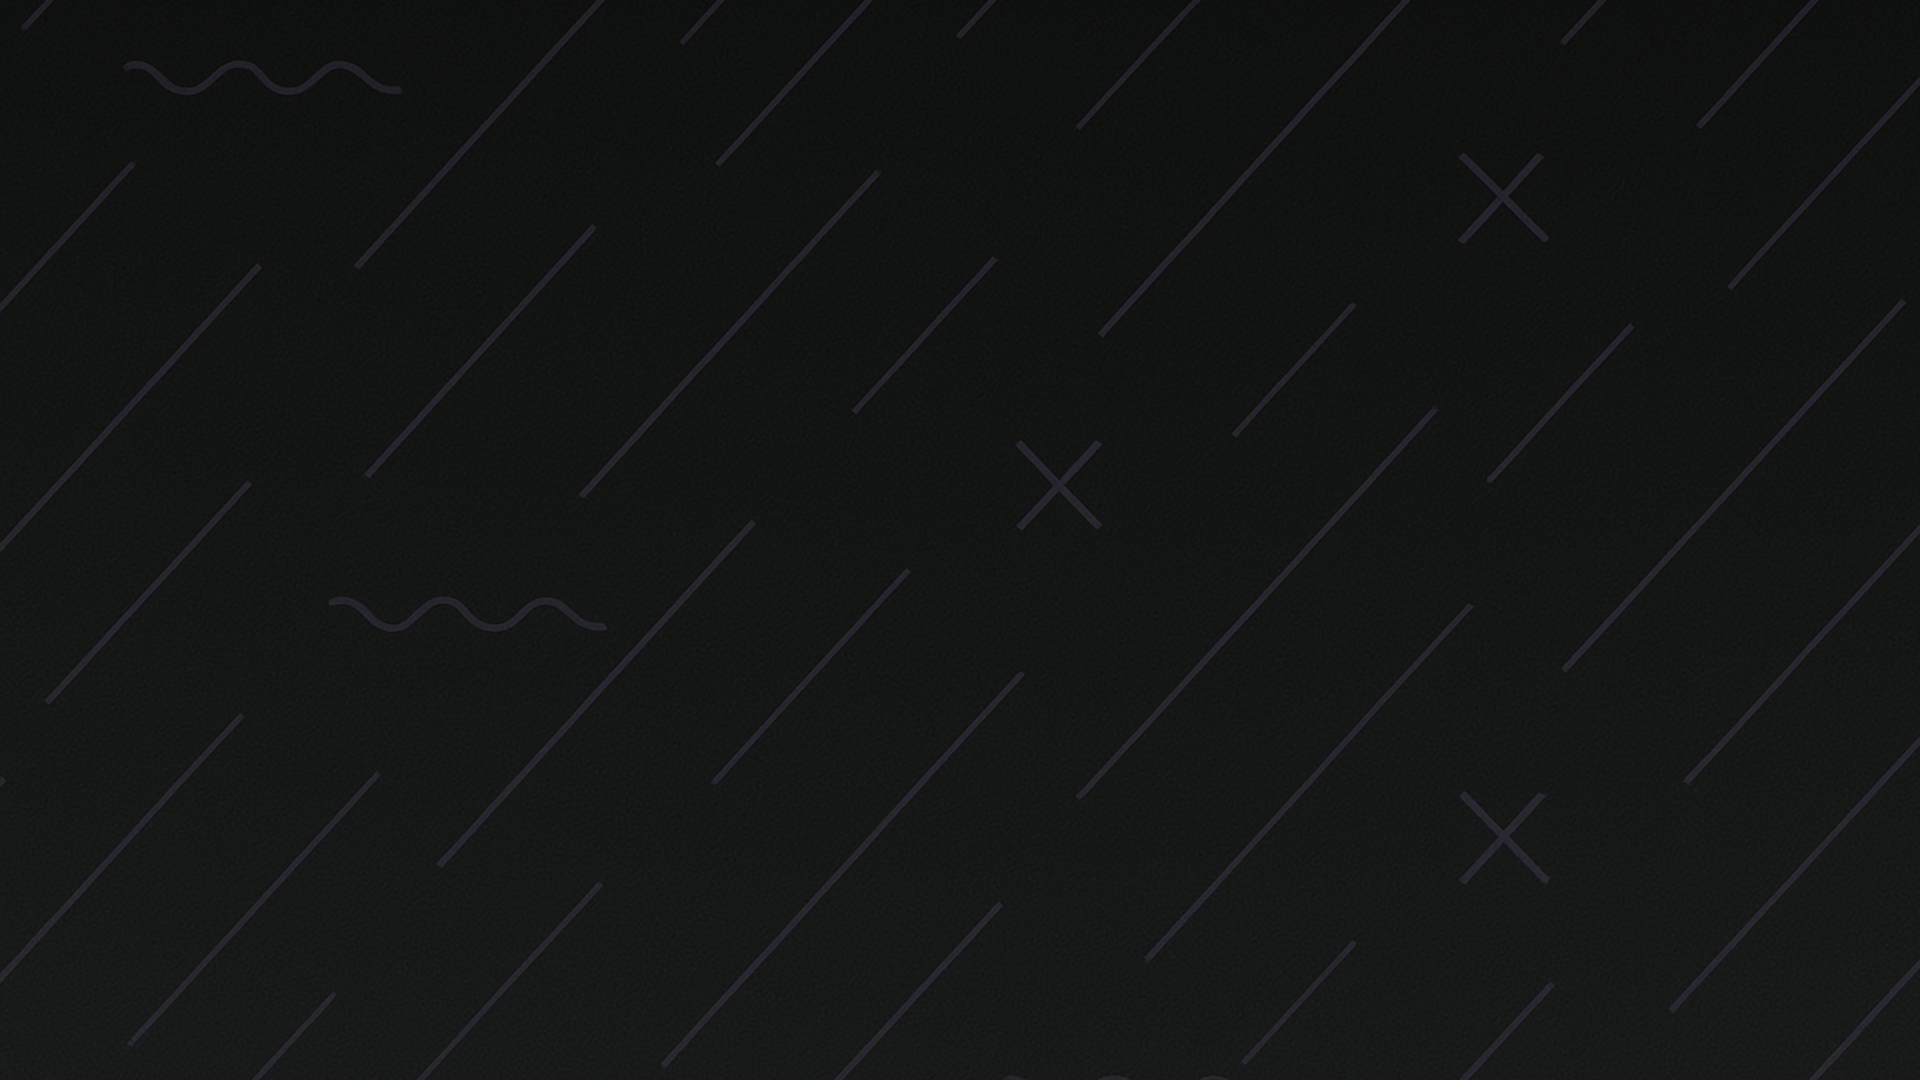
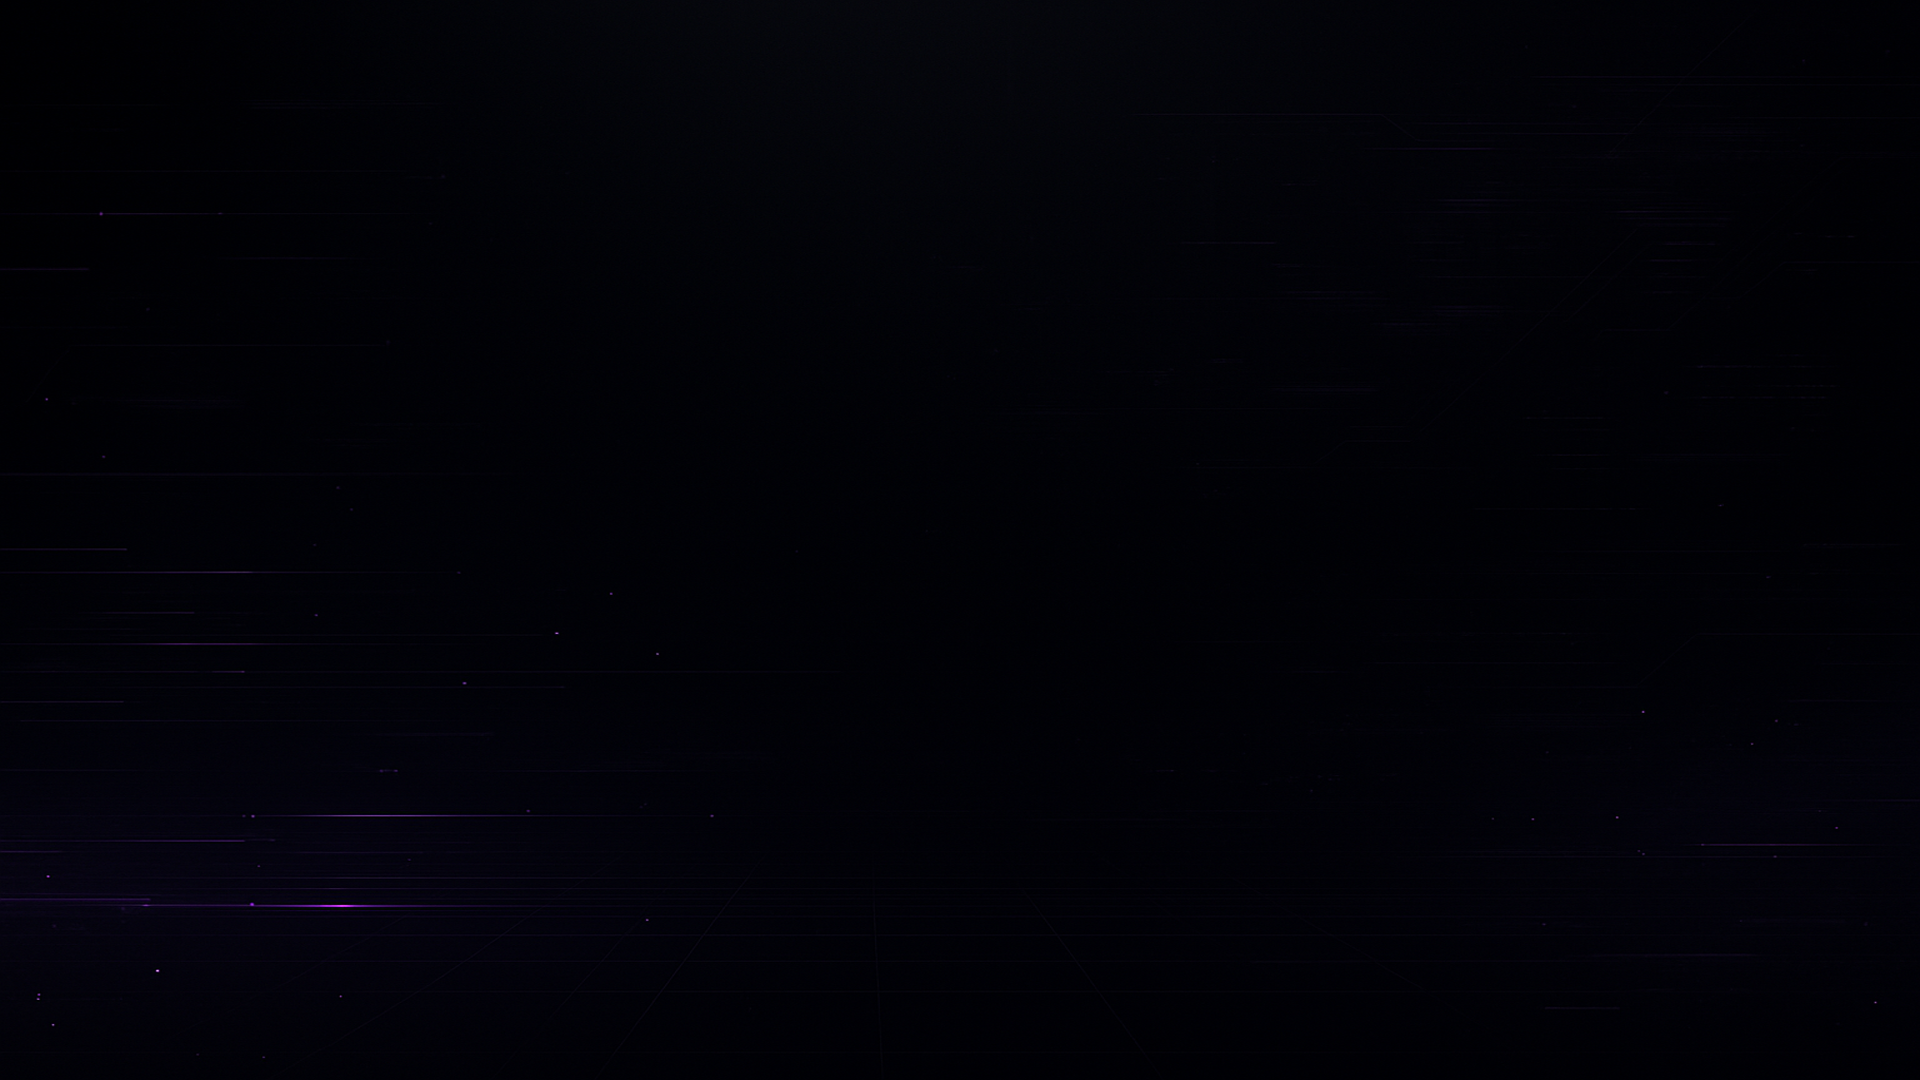
feat: criação de começo da estilização da página home

diff --git a/src/app/components/button-home/button-home.component.scss b/src/app/components/button-home/button-home.component.scss
@@ -1,25 +1,50 @@
-button {
-    font-size: 16px;
-    padding: 1em 3.3em;
+.button {
+    --main-color: #a250bb;
+    --main-bg-color: rgb(127, 80, 142, .36);
+    --pattern-color: rgba(182, 46, 213, 0.073);
+
+    filter: hue-rotate(0deg);
+
     cursor: pointer;
-    transform: perspective(200px) rotateX(15deg);
-    color: white;
-    font-weight: 900;
-    border: none;
-    border-radius: 5px;
-    background: linear-gradient(0deg,
-            rgba(63, 94, 251, 1) 0%,
-            rgba(70, 135, 252, 1) 100%);
-    box-shadow: rgba(63, 94, 251, 0.2) 0px 40px 29px 0px;
-    will-change: transform;
-    transition: all 0.3s;
-    border-bottom: 2px solid rgba(70, 135, 252, 1);
+    text-transform: uppercase;
+    letter-spacing: 0.5rem;
+    background: radial-gradient(circle,
+            var(--main-bg-color) 0%,
+            rgba(0, 0, 0, 0) 95%),
+        linear-gradient(var(--pattern-color) 1px, transparent 1px),
+        linear-gradient(to right, var(--pattern-color) 1px, transparent 1px);
+    background-size:
+        cover,
+        15px 15px,
+        15px 15px;
+    background-position:
+        center center,
+        center center,
+        center center;
+    border-image: radial-gradient(circle,
+            var(--main-color) 0%,
+            rgba(0, 0, 0, 0) 100%) 1;
+    border-width: 1px 0 1px 0;
+    color: var(--main-color);
+    padding: 1rem 3rem;
+    font-weight: 700;
+    font-family: 'Knight' !important;
+    font-size: 1em;
+    transition: background-size 0.2s ease-in-out;
+
+    @media (max-width: 768px) {
+        font-size: .8em;
+        letter-spacing: 0.4em;
+    }
 }
 
-button:hover {
-    transform: perspective(180px) rotateX(30deg) translateY(2px);
+.button:hover {
+    background-size:
+        cover,
+        10px 10px,
+        10px 10px;
 }
 
-button:active {
-    transform: perspective(170px) rotateX(36deg) translateY(5px);
+.button:active {
+    filter: hue-rotate(250deg);
 }

diff --git a/src/app/pages/home/home.component.html b/src/app/pages/home/home.component.html
@@ -1,4 +1,12 @@
-<div class="d-flex align-itens-center justify-content-center pt-3">
-    <!-- <app-button-home [text]="'Regras'"></app-button-home> -->
-     <h2>Seu novo RPG</h2>
+<div class="d-flex align-items-center justify-content-center flex-column pt-4">
+     <h1 class="title text-center mt-2">Conflict Protocol</h1>
+     <h2 class="subtitle text-center px-5">Domine o código. Conquiste o protocolo</h2>
+     <div class="d-flex align-items-center justify-content-center p-5 gap-3 flex-wrap">
+          <app-button-home [text]="'CRIAR UMA PARTIDA'"></app-button-home>
+          <app-button-home [text]="'ENCONTAR UMA SALA'"></app-button-home>
+     </div>
+
+     <div class="d-flex align-items-center justify-content-center p-5 gap-3 flex-column">
+          <img class="img-center" src="/images/tabuleiro.png">
+     </div>
 </div>

diff --git a/src/styles.scss b/src/styles.scss
@@ -1,6 +1,6 @@
 @font-face {
-    font-family: 'Nunito Sans';
-    src: url('../public/fonts/nunito-sans.ttf');
+    font-family: 'Knight';
+    src: url('../public/fonts/knight/knight.ttf');
 }
 
 html,
@@ -9,7 +9,7 @@ body {
 }
 
 h1 {
-    font-family: 'Nunito Sans' !important;
+    font-family: 'Knight' !important;
     font-weight: 600 !important;
     font-size: 1.6em !important;
 
@@ -17,15 +17,15 @@ h1 {
 }
 
 h2 {
-    font-family: 'Nunito Sans' !important;
+    font-family: 'Knight' !important;
     font-weight: 500 !important;
     font-size: 1.2em !important;
 
-    color: #7f508e !important;
+    color: #633772 !important;
 }
 
 p {
-    font-family: 'Nunito Sans' !important;
+    font-family: 'Knight' !important;
     font-weight: 400 !important;
     font-size: 1em !important;
 

diff --git a/src/app/pages/home/home.component.scss b/src/app/pages/home/home.component.scss
@@ -1,0 +1,23 @@
+.title {
+    font-size: 4em !important;
+
+    @media (max-width: 768px) {
+        font-size: 1.8em !important;
+    }
+}
+
+.subtitle {
+    font-size: 1.5em !important;
+
+    @media (max-width: 768px) {
+        font-size: 1.3em !important;
+    }
+}
+
+.img-center {
+    width: 700px;
+
+    @media (max-width: 768px) {
+        width: 300px;
+    }
+}

diff --git a/src/app/components/menu/menu.component.ts b/src/app/components/menu/menu.component.ts
@@ -1,9 +1,10 @@
 import { Component } from '@angular/core';
+import { ButtonHomeComponent } from "../button-home/button-home.component"
 
 @Component({
   selector: 'app-menu',
   standalone: true,
-  imports: [],
+  imports: [ButtonHomeComponent],
   templateUrl: './menu.component.html',
   styleUrl: './menu.component.scss'
 })

diff --git a/src/app/app.component.scss b/src/app/app.component.scss
@@ -2,7 +2,7 @@
     height: 100% !important;
 
     background-color: #030303 !important;
-    background-image: url('/backgrounds/transparent-background.png');
+    background-image: url('/backgrounds/background.png');
     background-repeat: repeat;
     background-size: auto;
 }

diff --git a/src/app/components/button-home/button-home.component.ts b/src/app/components/button-home/button-home.component.ts
@@ -9,4 +9,5 @@ import { Component, Input } from '@angular/core'
 })
 export class ButtonHomeComponent {
   @Input() text: string = ''
+  @Input() secondText: string = ''
 }

diff --git a/src/app/components/menu/menu.component.html b/src/app/components/menu/menu.component.html
@@ -1,4 +1,3 @@
 <div class="d-flex align-items-center justify-content-center flex-column menu">
     <h1>Conflict Protocol</h1>
-    <div class="separator"></div>
 </div>

diff --git a/src/app/components/button-home/button-home.component.html b/src/app/components/button-home/button-home.component.html
@@ -1,1 +1,1 @@
-<button>{{ text }}</button>
+<button class="button">{{ text }}</button>
